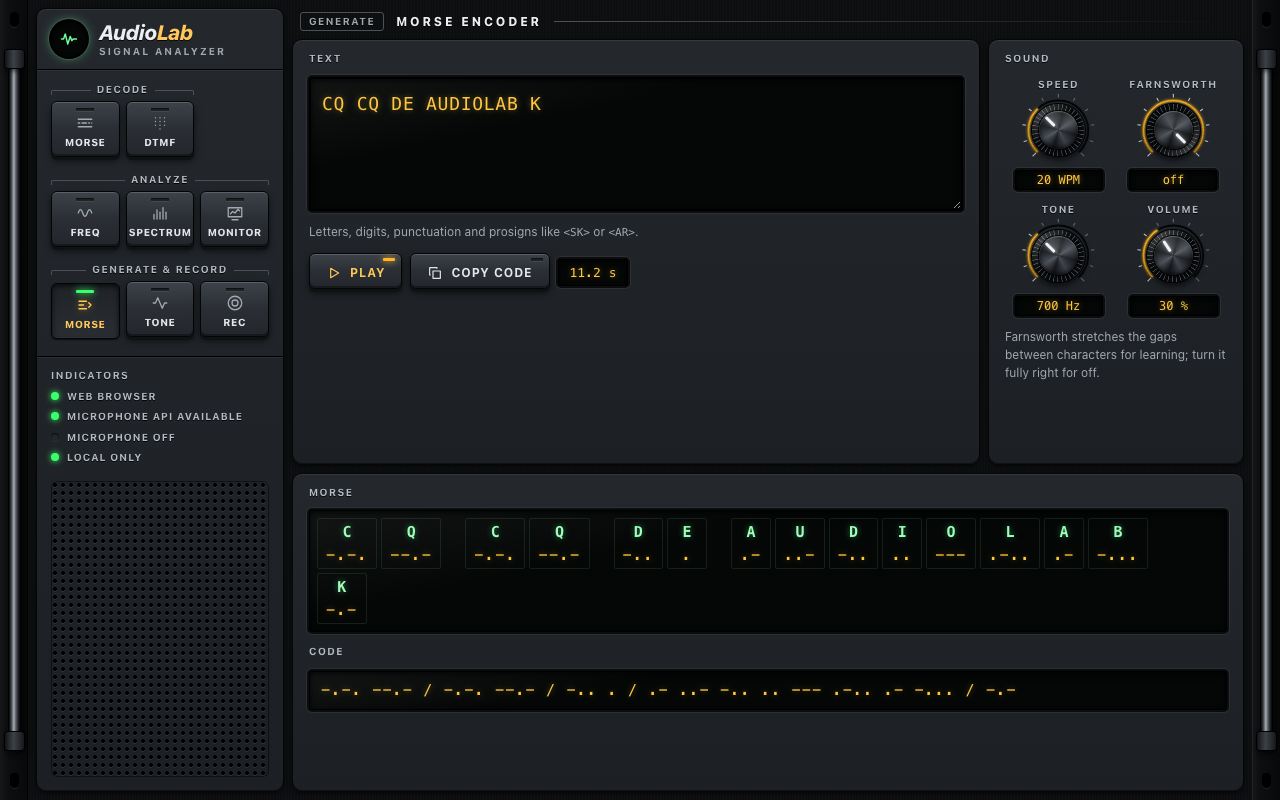
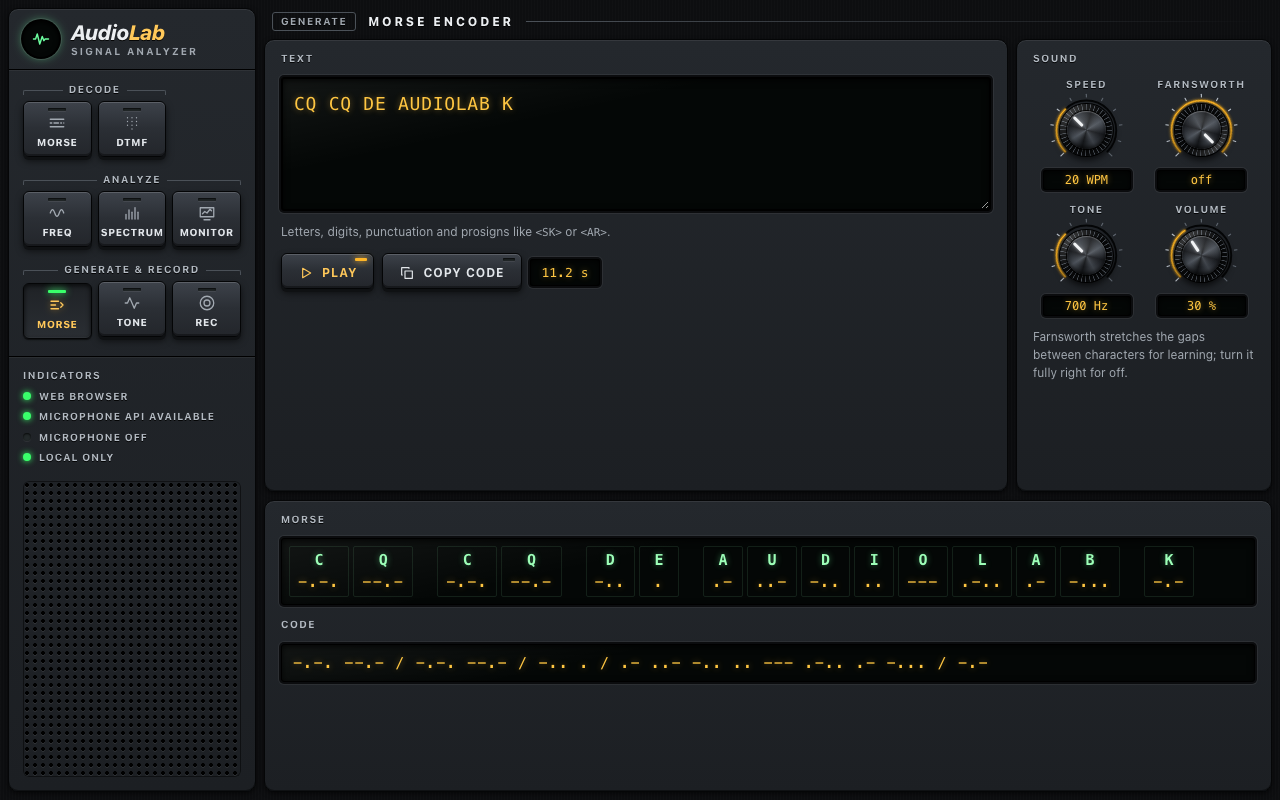
Remove the rack handles from the front panel
The side strips with carrying handles and mounting slots are gone; the
console and workspace now use the full window width. Docs and
screenshots updated.

Changed region(s): [[0.0, 0.0, 1.0, 1.0]]

diff --git a/src/app/shell/app-shell.css b/src/app/shell/app-shell.css
@@ -1,93 +1,8 @@
 :host {
-  /* columns in DOM order: handle, console, workspace, handle */
   display: grid;
-  grid-template-columns: var(--ear-width) var(--console-width) minmax(0, 1fr) var(--ear-width);
+  grid-template-columns: var(--console-width) minmax(0, 1fr);
   height: 100dvh;
   overflow: hidden;
-}
-
-/* ── Rack ears with carrying handles ────────────────────────────────────────────────────── */
-.ear {
-  position: relative;
-  background:
-    linear-gradient(90deg, rgb(255 255 255 / 4%), transparent 30%, rgb(0 0 0 / 35%)), var(--chassis);
-}
-
-.ear-left {
-  box-shadow: inset -1px 0 0 rgb(0 0 0 / 80%);
-}
-
-.ear-right {
-  box-shadow: inset 1px 0 0 rgb(255 255 255 / 5%);
-}
-
-/* slotted mounting holes */
-.ear::before,
-.ear::after {
-  content: '';
-  position: absolute;
-  left: 50%;
-  width: 9px;
-  height: 15px;
-  margin-left: -4.5px;
-  border-radius: 5px;
-  background: #000;
-  box-shadow:
-    inset 0 2px 3px rgb(0 0 0 / 90%),
-    0 1px 0 rgb(255 255 255 / 9%);
-}
-
-.ear::before {
-  top: 0.75rem;
-}
-
-.ear::after {
-  bottom: 0.75rem;
-}
-
-/* a chromed tube standing off the plate on two feet */
-.handle {
-  position: absolute;
-  top: 3.5rem;
-  bottom: 3.5rem;
-  left: 50%;
-  width: 11px;
-  margin-left: -5.5px;
-  border-radius: 6px;
-  background: linear-gradient(
-    90deg,
-    #08090a 0%,
-    #3a3f45 20%,
-    #a7adb4 44%,
-    #5a6067 62%,
-    #1a1c1f 86%,
-    #08090a 100%
-  );
-  box-shadow:
-    0 0 0 1px #000,
-    4px 7px 9px rgb(0 0 0 / 75%);
-}
-
-.handle::before,
-.handle::after {
-  content: '';
-  position: absolute;
-  left: -4px;
-  right: -4px;
-  height: 1.1rem;
-  border-radius: 3px;
-  background: linear-gradient(90deg, #111316, #3c4147 45%, #15171a);
-  box-shadow:
-    0 0 0 1px #000,
-    0 3px 5px rgb(0 0 0 / 60%);
-}
-
-.handle::before {
-  top: -0.35rem;
-}
-
-.handle::after {
-  bottom: -0.35rem;
 }
 
 /* ── Console: nameplate, mode keys, indicators ──────────────────────────────────────────── */
@@ -348,14 +263,13 @@
   outline: none;
 }
 
-/* Narrow windows: no handles, the console becomes a strip above the workspace. */
+/* Narrow windows: the console becomes a strip above the workspace. */
 @media (max-width: 820px) {
   :host {
     grid-template-columns: minmax(0, 1fr);
     grid-template-rows: auto minmax(0, 1fr);
   }
 
-  .ear,
   .grille,
   .brand-model,
   .indicators-title {

diff --git a/src/styles/tokens.css b/src/styles/tokens.css
@@ -1,8 +1,8 @@
 /*
  * AudioLab design tokens – "SDR transceiver".
  *
- * The window is the front panel of a piece of radio equipment: a black anodized chassis with rack
- * handles, raised sections separated by dark grooves, glass displays with phosphor/amber readouts,
+ * The window is the front panel of a piece of radio equipment: a black anodized chassis, raised
+ * sections separated by dark grooves, glass displays with phosphor/amber readouts,
  * plastic keycaps with indicator LEDs and machined rotary knobs. There is one finish only – dark –
  * independent of the system theme, like real hardware.
  */
@@ -46,7 +46,6 @@
   --easing: cubic-bezier(0.2, 0, 0, 1);
 
   /* Layout */
-  --ear-width: 1.75rem;
   --console-width: 16rem;
   --groove: 0.5rem;
   --content-max: 104rem;

diff --git a/src/app/shell/app-shell.ts b/src/app/shell/app-shell.ts
@@ -6,8 +6,8 @@ import { PlatformAdapter } from '../platform/platform-adapter';
 import { Icon } from '../shared/icon/icon';
 
 /**
- * Application frame, drawn as the front panel of a radio: rack handles, a console with the
- * nameplate, the mode keys and the indicator LEDs, and the workspace of the selected module.
+ * Application frame, drawn as the front panel of a radio: a console with the nameplate, the mode
+ * keys and the indicator LEDs, and the workspace of the selected module.
  */
 @Component({
   selector: 'app-shell',

diff --git a/src/app/shell/app-shell.html b/src/app/shell/app-shell.html
@@ -1,7 +1,5 @@
 <a class="skip-link" href="#main">Skip to content</a>
 
-<div class="ear ear-left" aria-hidden="true"><span class="handle"></span></div>
-
 <div class="console">
   <header class="nameplate">
     <span class="brand-mark"><app-icon name="logo" [size]="20" /></span>
@@ -78,5 +76,3 @@
 <main id="main" class="workspace" tabindex="-1">
   <router-outlet />
 </main>
-
-<div class="ear ear-right" aria-hidden="true"><span class="handle"></span></div>

diff --git a/docs/ARCHITECTURE.md b/docs/ARCHITECTURE.md
@@ -34,7 +34,7 @@ or `@tauri-apps/*`; `eslint.config.js` fails the lint otherwise. Features never 
 src/
 ├── app/
 │   ├── app.ts, app.config.ts, app.routes.ts
-│   ├── shell/               front panel: rack handles, nameplate, mode keys, indicators, outlet
+│   ├── shell/               front panel: nameplate, mode keys, indicators, outlet
 │   ├── core/
 │   │   ├── modules/         AnalysisModule type + module catalog (single source of truth)
 │   │   ├── capture/         CaptureSession, capture providers, demo signals, microphone activity
@@ -208,11 +208,11 @@ download link. Recording uses the app's own WAV encoder (16-bit PCM or 32-bit fl
 ### ADR-012 – SDR front-panel design, dark only
 
 The window imitates the front panel of an SDR transceiver instead of a web page. The shell is a
-chassis with rack handles (decorative, `aria-hidden`), a console with the nameplate, a keypad of
-mode keys and the indicator LEDs (platform, microphone API, microphone, local only), and the
-workspace of the selected module. There is no overview page: `/` redirects to the Morse decoder.
-Mode keys are router links with a short legend from the module catalog (`AnalysisModule.key`)
-and the full module name as their accessible name.
+chassis with a console holding the nameplate, a keypad of mode keys and the indicator LEDs
+(platform, microphone API, microphone, local only), and the workspace of the selected module.
+There is no overview page: `/` redirects to the Morse decoder. Mode keys are router links with a
+short legend from the module catalog (`AnalysisModule.key`) and the full module name as their
+accessible name.
 
 Controls are hardware, not form widgets:
 

diff --git a/CHANGELOG.md b/CHANGELOG.md
@@ -75,10 +75,10 @@ All notable changes to this project are documented here. The format follows
 
 ### Changed
 
-- The window is now the front panel of an SDR transceiver: black chassis with rack handles, a
-  console with nameplate, a keypad of mode keys with LEDs (replaces the sidebar navigation) and
-  indicator LEDs (replaces the status bar), raised sections separated by grooves that fill the
-  window, glass displays with phosphor/amber readouts, LED level ladders and an analog VU meter.
+- The window is now the front panel of an SDR transceiver: black chassis, a console with
+  nameplate, a keypad of mode keys with LEDs (replaces the sidebar navigation) and indicator LEDs
+  (replaces the status bar), raised sections separated by grooves that fill the window, glass
+  displays with phosphor/amber readouts, LED level ladders and an analog VU meter.
 - Hardware controls everywhere: latching key selectors (ARIA radio groups) replace drop-downs
   and the peak-hold checkbox; machined rotary knobs with a lit scale arc replace all sliders
   (Morse decoder, Morse encoder, tone generator); the tone generator has a tuning dial and a

diff --git a/README.md b/README.md
@@ -25,7 +25,7 @@ macOS, Windows and Linux.
 
 Every input-based module has a **Demo signal** input, so you can try it without a microphone.
 
-The window is the front panel of an SDR transceiver: rack handles, a keypad of mode keys with
+The window is the front panel of an SDR transceiver: a black chassis, a keypad of mode keys with
 indicator LEDs instead of a menu, glass displays with phosphor and amber readouts, latching
 hardware keys instead of drop-downs, machined rotary knobs and a tuning dial instead of sliders,
 and a moving-coil meter. It is always dark – like real hardware – whatever the system theme.
